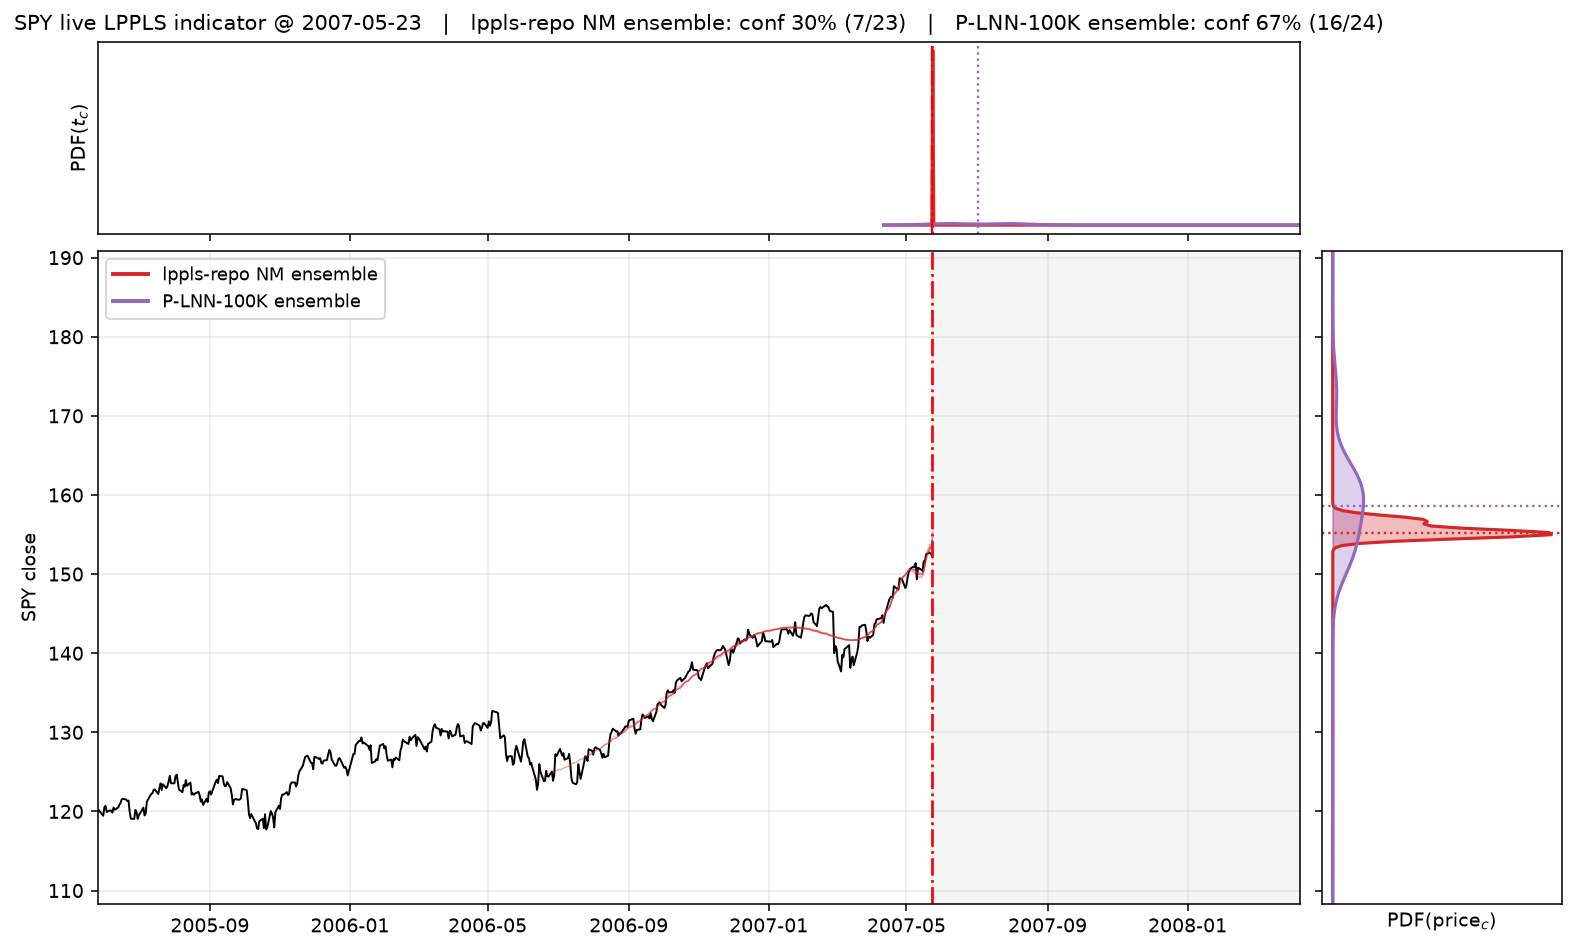
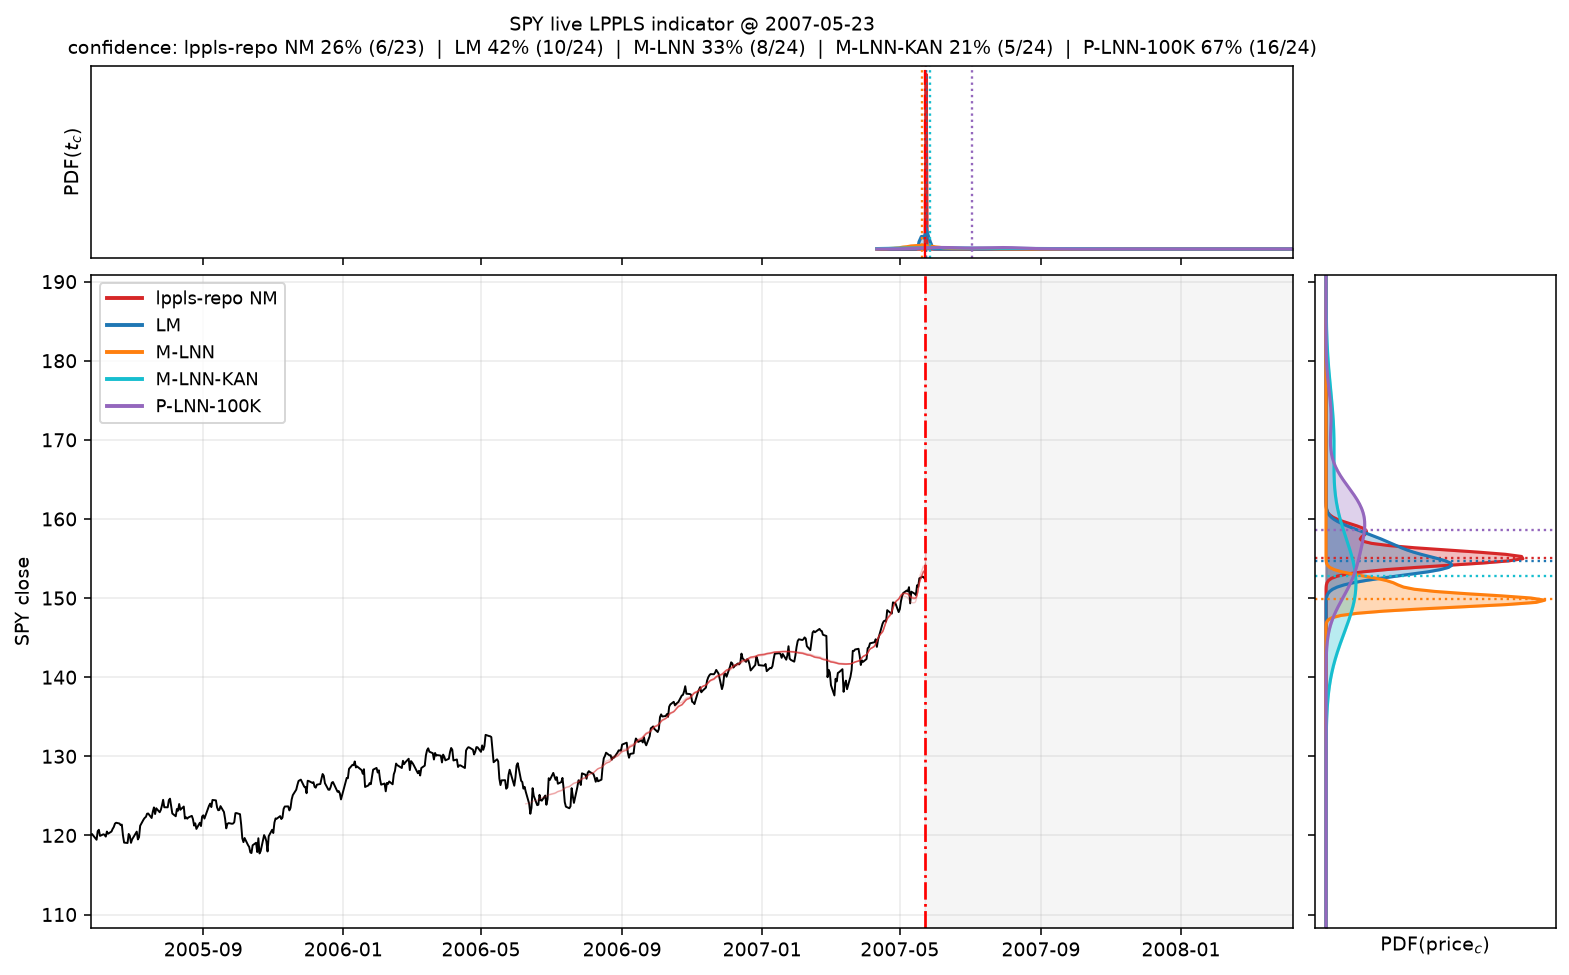
Live indicator: all five method ensembles (NM, LM, M-LNN, M-LNN-KAN, P-LNN)
Each method now contributes its own tc and price_c probability density from
fits across the 24-length window ensemble, with per-method confidence in
the header. Snapshots regenerated; heavy per-series methods subsample every
other window in animation mode (--stride).

Claude-Session: https://claude.ai/code/session_016JSDAmJXssYuGdRunV62ee

diff --git a/lppls_paper_vs_repo/scripts/live_lppls_indicator.py b/lppls_paper_vs_repo/scripts/live_lppls_indicator.py
@@ -10,9 +10,11 @@ fits that pass the reference repo's qualification filters, and render:
   * main panel  - price history, the qualified LPPLS fits, and the ensemble
                   confidence (share of qualified fits)
 
-Two ensembles are shown: the classical Nelder-Mead multistart (red, the
-reference repo's fit - ~1.5 s per snapshot) and the paper's pre-trained
-P-LNN-100K (purple, ~50 ms per snapshot) - each across ~24 window lengths.
+Five ensembles are shown, each across the window-length grid: the reference
+repo's Nelder-Mead (red), the paper's LM (blue), M-LNN (orange), the
+M-LNN-KAN extension (cyan) and the pre-trained P-LNN-100K (purple). Refresh
+cost is dominated by the per-series networks (~95 s for a full 24-window
+snapshot; ~50 ms for a P-LNN-only refresh).
 
 Usage:
   snapshot: python scripts/live_lppls_indicator.py --data tasi --date 2022-04-08
@@ -36,7 +38,7 @@ from scipy.stats import gaussian_kde
 ROOT = Path(__file__).resolve().parents[1]
 sys.path.insert(0, str(ROOT))
 
-from deep_lppls import plnn
+from deep_lppls import kan, lm, mlnn, plnn
 from deep_lppls.core import minmax_scale, solve_linear
 from lppls.lppls import LPPLS
 from spy_bubble_scan import qualify
@@ -59,14 +61,36 @@ def load(key):
     return df
 
 
-def fit_ensembles(df, t2_idx, plnn_params):
-    """Ensemble fits at t2 over WINDOW_LENGTHS. Returns dict per ensemble:
-    list of dicts (tc_idx, price_c, qualified, params...)."""
+def _norm_record(tc, m, w, x_scaled, scale, t2_idx, L):
+    """Shared post-processing for methods fitted on the normalised window:
+    linear solve -> price_c, qualification filters in normalised units."""
+    mn, rng = scale
+    t_norm = np.linspace(0.0, 1.0, N)
+    a, b, c1, c2 = solve_linear(t_norm, x_scaled, tc, m, w)
+    tc_idx = t2_idx + (tc - 1.0) * (L - 1)
+    denom = tc - 1.0
+    O = (w / (2 * np.pi)) * np.log(tc / denom) if denom > 0 else np.inf
+    c_abs = float(np.hypot(c1, c2))
+    D = (m * abs(b)) / (w * c_abs) if c_abs > 0 else np.inf
+    ok = (
+        (t2_idx - min(60, 0.5 * (L - 1))) < tc_idx < (t2_idx + min(252, 0.5 * (L - 1)))
+        and 0 < m < 1 and 2 < w < 15 and O > 2.5 and D > 0.5 and b < 0
+    )
+    return dict(tc_idx=float(tc_idx), price_c=float(np.exp(a * rng + mn)),
+                qualified=bool(ok), m=float(m), w=float(w), L=L)
+
+
+def fit_ensembles(df, t2_idx, plnn_params, heavy_stride=1):
+    """Ensemble fits at t2 over WINDOW_LENGTHS for ALL methods. Returns dict
+    per ensemble: list of dicts (tc_idx, price_c, qualified, ...). The
+    per-series methods (LM, M-LNN, M-LNN-KAN) fit every heavy_stride-th
+    window (they cost 0.5-3 s per fit; NM and P-LNN fit every window)."""
     t_all = np.arange(len(df), dtype=float)
     logp = df["logp"].values
     model = LPPLS(observations=np.array([t_all, logp]))
-    out = {"NM": [], "P-LNN": []}
-    for L in WINDOW_LENGTHS:
+    out = {"NM": [], "LM": [], "M-LNN": [], "M-LNN-KAN": [], "P-LNN": []}
+    t_norm = np.linspace(0.0, 1.0, N)
+    for wi, L in enumerate(WINDOW_LENGTHS):
         t1_idx = t2_idx - L + 1
         if t1_idx < 0:
             continue
@@ -77,25 +101,22 @@ def fit_ensembles(df, t2_idx, plnn_params):
             ok = qualify(tc, m, w, b, c, O, D, float(t1_idx), float(t2_idx))
             out["NM"].append(dict(tc_idx=tc, price_c=float(np.exp(a)), qualified=ok,
                                   m=m, w=w, b=b, c1=c1, c2=c2, a=a, t1_idx=t1_idx, L=L))
-        # --- P-LNN-100K on the resampled min-max-scaled window ---
+        # --- normalised 252-point window shared by the paper's methods ---
         win = logp[t1_idx : t2_idx + 1]
-        x = np.interp(np.linspace(0, 1, N), np.linspace(0, 1, len(win)), win)
-        x_scaled, (mn, rng) = minmax_scale(x)
+        x = np.interp(t_norm, np.linspace(0, 1, len(win)), win)
+        x_scaled, scale = minmax_scale(x)
+
         tcn, mn_, wn = (float(v) for v in plnn.predict(plnn_params, x_scaled.astype(np.float32))[0])
-        t_norm = np.linspace(0.0, 1.0, N)
-        a4, b4, c14, c24 = solve_linear(t_norm, x_scaled, tcn, mn_, wn)
-        tc_idx = t2_idx + (tcn - 1.0) * (L - 1)
-        # qualification: same filters, in normalised units (O, D from fit)
-        denom = tcn - 1.0
-        O_p = (wn / (2 * np.pi)) * np.log(tcn / denom) if denom > 0 else np.inf
-        c_abs = float(np.hypot(c14, c24))
-        D_p = (mn_ * abs(b4)) / (wn * c_abs) if c_abs > 0 else np.inf
-        ok = (
-            (t2_idx - min(60, 0.5 * (L - 1))) < tc_idx < (t2_idx + min(252, 0.5 * (L - 1)))
-            and 0 < mn_ < 1 and 2 < wn < 15 and O_p > 2.5 and D_p > 0.5 and b4 < 0
-        )
-        out["P-LNN"].append(dict(tc_idx=float(tc_idx), price_c=float(np.exp(a4 * rng + mn)),
-                                 qualified=bool(ok), m=mn_, w=wn, L=L))
+        out["P-LNN"].append(_norm_record(tcn, mn_, wn, x_scaled, scale, t2_idx, L))
+
+        if wi % heavy_stride == 0:
+            seed = t2_idx * 1000 + L
+            r = lm.fit_lm(t_norm, x_scaled, seed=seed)
+            out["LM"].append(_norm_record(r["tc"], r["m"], r["w"], x_scaled, scale, t2_idx, L))
+            r = mlnn.fit_mlnn(x_scaled, seed=seed)
+            out["M-LNN"].append(_norm_record(r["tc"], r["m"], r["w"], x_scaled, scale, t2_idx, L))
+            r = kan.fit_mlnn_kan(x_scaled, seed=seed)
+            out["M-LNN-KAN"].append(_norm_record(r["tc"], r["m"], r["w"], x_scaled, scale, t2_idx, L))
     return out
 
 
@@ -132,8 +153,10 @@ def render(df, t2_idx, ensembles, key, ax_cache=None):
     ax.set_xlim(x_lo, x_hi)
     ax.set_ylim(price_lo, price_hi)
 
-    colors = {"NM": "tab:red", "P-LNN": "tab:purple"}
-    labels = {"NM": "lppls-repo NM ensemble", "P-LNN": "P-LNN-100K ensemble"}
+    colors = {"NM": "tab:red", "LM": "tab:blue", "M-LNN": "tab:orange",
+              "M-LNN-KAN": "tab:cyan", "P-LNN": "tab:purple"}
+    labels = {"NM": "lppls-repo NM", "LM": "LM", "M-LNN": "M-LNN",
+              "M-LNN-KAN": "M-LNN-KAN", "P-LNN": "P-LNN-100K"}
     conf_txt = []
     day_grid = np.linspace(t2_idx - 30, t2_idx + FUTURE_SHOW, 300)
     date_grid = [idx_to_date(df, v) for v in day_grid]
@@ -142,7 +165,7 @@ def render(df, t2_idx, ensembles, key, ax_cache=None):
     for name, fits in ensembles.items():
         q = [f for f in fits if f["qualified"]]
         conf = len(q) / len(fits) if fits else 0.0
-        conf_txt.append(f"{labels[name]}: conf {conf:.0%} ({len(q)}/{len(fits)})")
+        conf_txt.append(f"{labels[name]} {conf:.0%} ({len(q)}/{len(fits)})")
         # draw qualified NM fits faintly in the main panel
         if name == "NM":
             t_all = np.arange(len(df), dtype=float)
@@ -175,8 +198,8 @@ def render(df, t2_idx, ensembles, key, ax_cache=None):
     ax_t.axvline(df.loc[t2_idx, "Date"], color="red", ls="-.", lw=1.2)
     ax_t.set_ylabel("PDF($t_c$)")
     ax_t.set_yticks([])
-    ax_t.set_title(f"{DATASETS[key]['label']} live LPPLS indicator @ {df.loc[t2_idx, 'Date'].date()}   |   "
-                   + "   |   ".join(conf_txt), fontsize=11)
+    ax_t.set_title(f"{DATASETS[key]['label']} live LPPLS indicator @ {df.loc[t2_idx, 'Date'].date()}\n"
+                   "confidence: " + "  |  ".join(conf_txt), fontsize=10)
     ax_p.set_xlabel("PDF(price$_c$)")
     ax_p.set_xticks([])
     plt.setp(ax_p.get_yticklabels(), visible=False)
@@ -195,6 +218,9 @@ def main():
     ap.add_argument("--date", help="snapshot date YYYY-MM-DD")
     ap.add_argument("--animate", nargs=2, metavar=("START", "END"), help="GIF over date range")
     ap.add_argument("--step", type=int, default=5, help="trading days between frames")
+    ap.add_argument("--stride", type=int, default=None,
+                    help="window stride for the slow per-series methods "
+                         "(default 1 for snapshots, 2 for animations)")
     args = ap.parse_args()
 
     df = load(args.data)
@@ -206,10 +232,11 @@ def main():
     if args.animate:
         from PIL import Image
 
+        stride = args.stride if args.stride else 2
         i0, i1 = nearest_idx(args.animate[0]), nearest_idx(args.animate[1])
         frames = []
         for k, t2_idx in enumerate(range(i0, i1 + 1, args.step)):
-            ens = fit_ensembles(df, t2_idx, plnn_params)
+            ens = fit_ensembles(df, t2_idx, plnn_params, heavy_stride=stride)
             fig = render(df, t2_idx, ens, args.data)
             fig.canvas.draw()
             frames.append(Image.fromarray(np.asarray(fig.canvas.buffer_rgba())[..., :3]))
@@ -221,7 +248,7 @@ def main():
         print(f"saved {out} ({len(frames)} frames)")
     else:
         t2_idx = nearest_idx(args.date)
-        ens = fit_ensembles(df, t2_idx, plnn_params)
+        ens = fit_ensembles(df, t2_idx, plnn_params, heavy_stride=args.stride or 1)
         fig = render(df, t2_idx, ens, args.data)
         out = ROOT / "results" / f"fig_live_indicator_{args.data}_{args.date}.png"
         fig.savefig(out, dpi=140, bbox_inches="tight")
